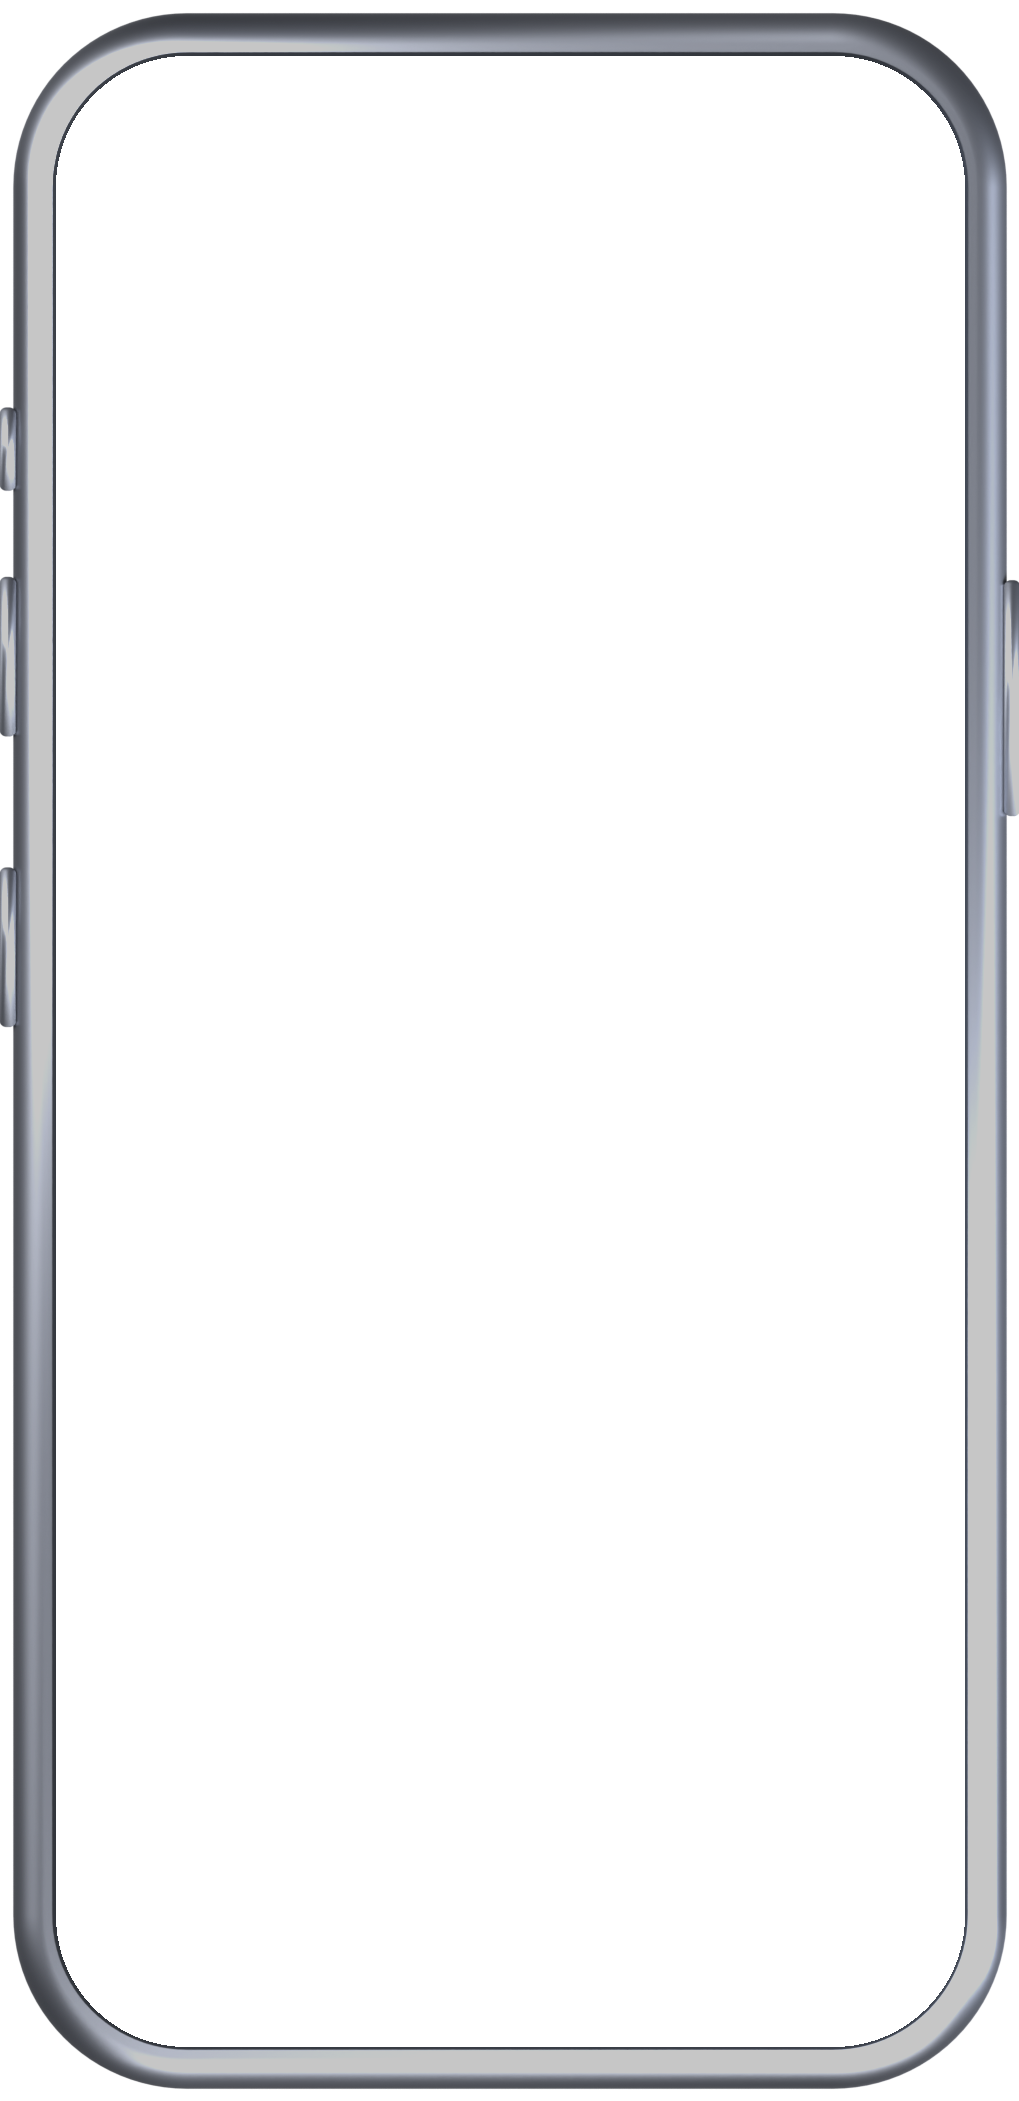
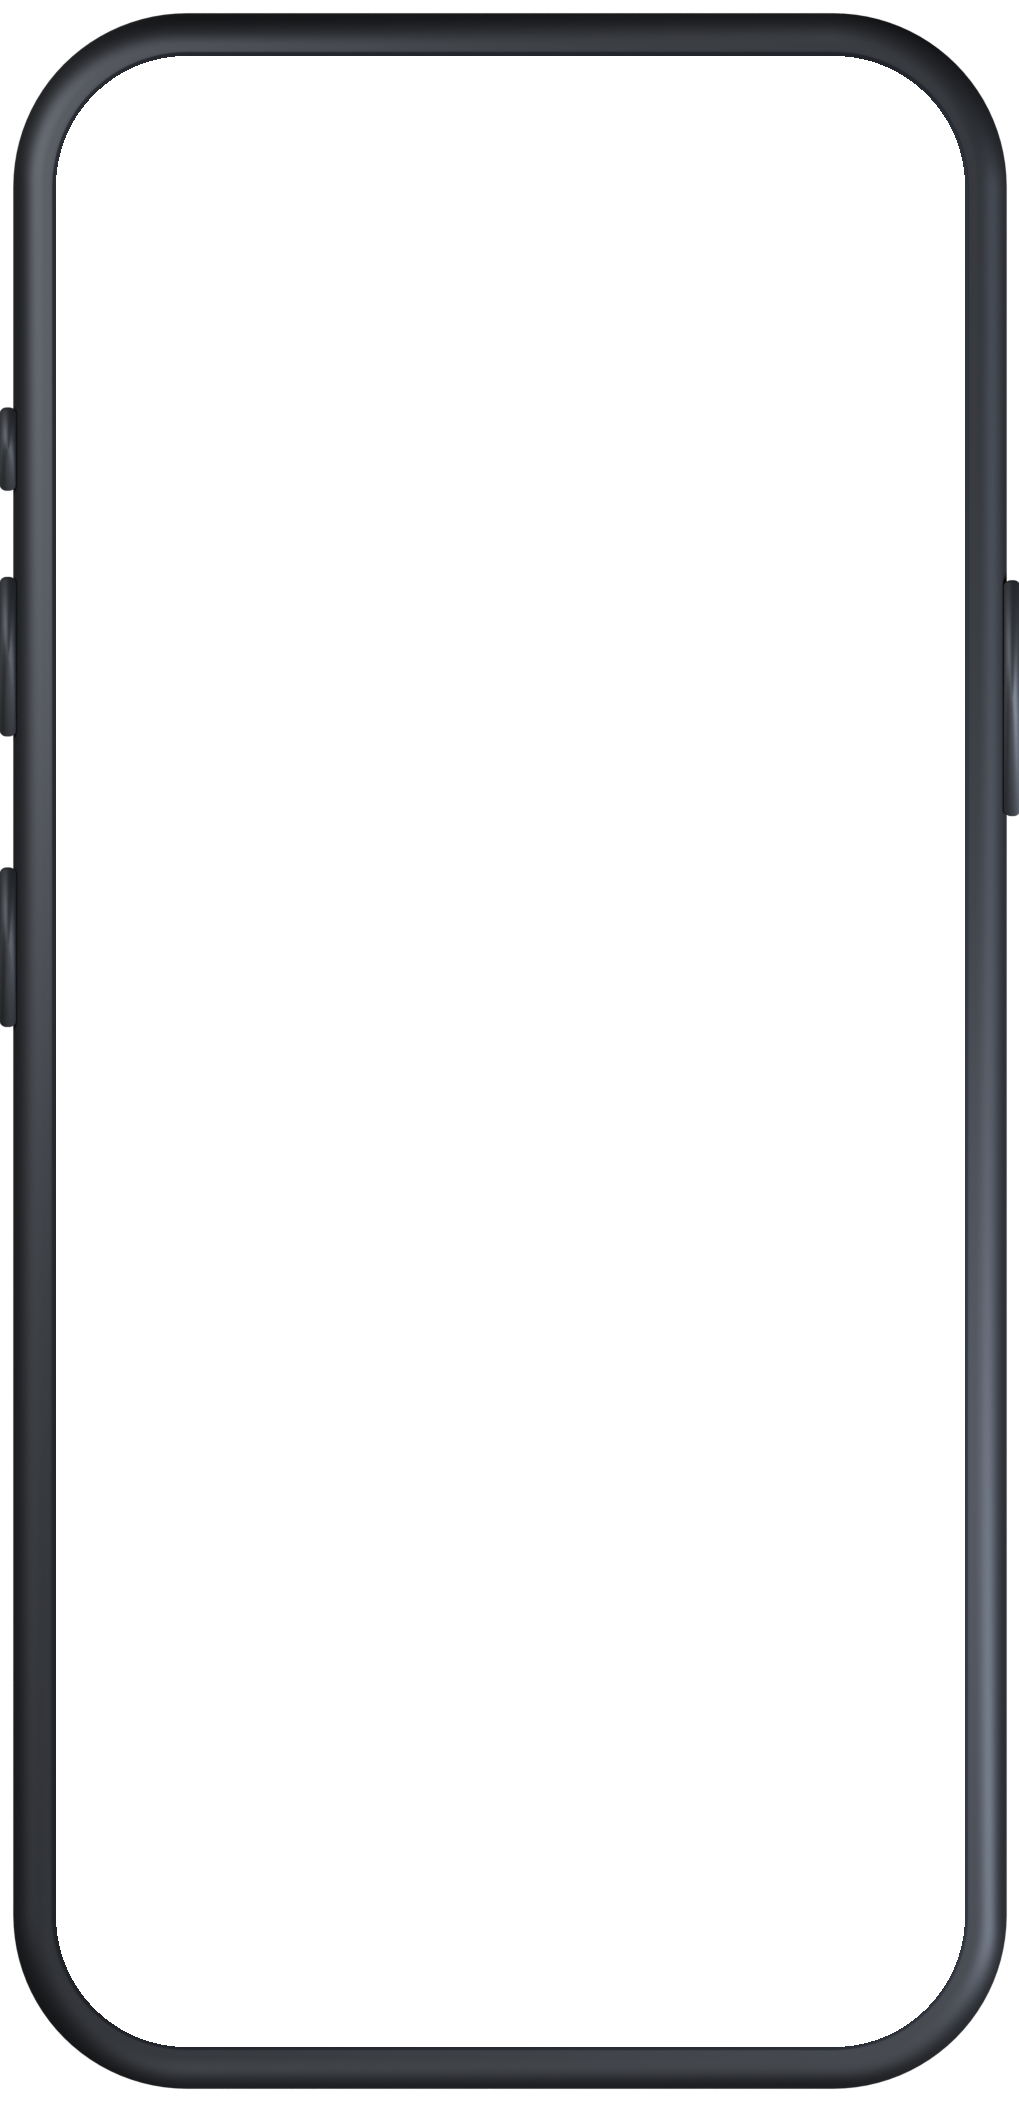
Zwarte titanium behuizing; 'wijzigen achteraf is uitgesloten'

Changed region(s): [[0.0, 0.0, 1.0, 1.0]]

diff --git a/index.html b/index.html
@@ -316,7 +316,7 @@
         <li><span class="lbl">03 · SCAN</span><b>Opdracht op de telefoon</b><p>Het bureau of het TMS zet de vrachtbrief klaar, met de vingerafdruk van het document erbij. De chauffeur scant of tikt, niets typen.</p></li>
         <li><span class="lbl">04 · CONTROLEER</span><b>Document, foto, Face ID</b><p>Dit is geen scan die ergens wordt opgeslagen. Foto, plaats, tijd en document worden samen gehasht; de sleutel tekent die vingerafdruk na Face ID.</p></li>
         <li><span class="lbl">05 · VOLTOOID</span><b>Getekend en verankerd</b><p>Tijdstempel, locatie, firma, overgave, sensordata: alles in één vingerafdruk, verankerd bij een onafhankelijke derde en in Bitcoin. Onuitwisbaar, ook voor ons. Uw ketenpartners tekenen dezelfde waarheid mee.</p></li>
-        <li><span class="lbl">06 · CONTROLE</span><b>Wat de tegenpartij ziet</b><p>Zeven controles, elk na te rekenen zonder Vidimus. Eén teken anders en de vingerafdruk klopt niet meer: wijzigen achteraf valt altijd op.</p></li>
+        <li><span class="lbl">06 · CONTROLE</span><b>Wat de tegenpartij ziet</b><p>Zeven controles, elk na te rekenen zonder Vidimus. Wijzigen achteraf is uitgesloten: één teken anders en de vingerafdruk klopt niet meer met het anker.</p></li>
       </ol>
       <a class="app-badge" href="https://cal.com/oskar-verschoren-vhygeu/15min" target="_blank" rel="noopener"><svg aria-hidden="true"><use href="#i-mark"/></svg><span><small>VIDIMUS VOOR IPHONE</small><b>Via TestFlight in uw pilot</b></span></a>
       <p class="stage-strip"><span>SHA-256</span><span>Sleutel op het toestel</span><span>Tijdstempel van een derde</span><span>Bitcoin</span><span class="acc">Onuitwisbaar, ook voor ons</span></p>
